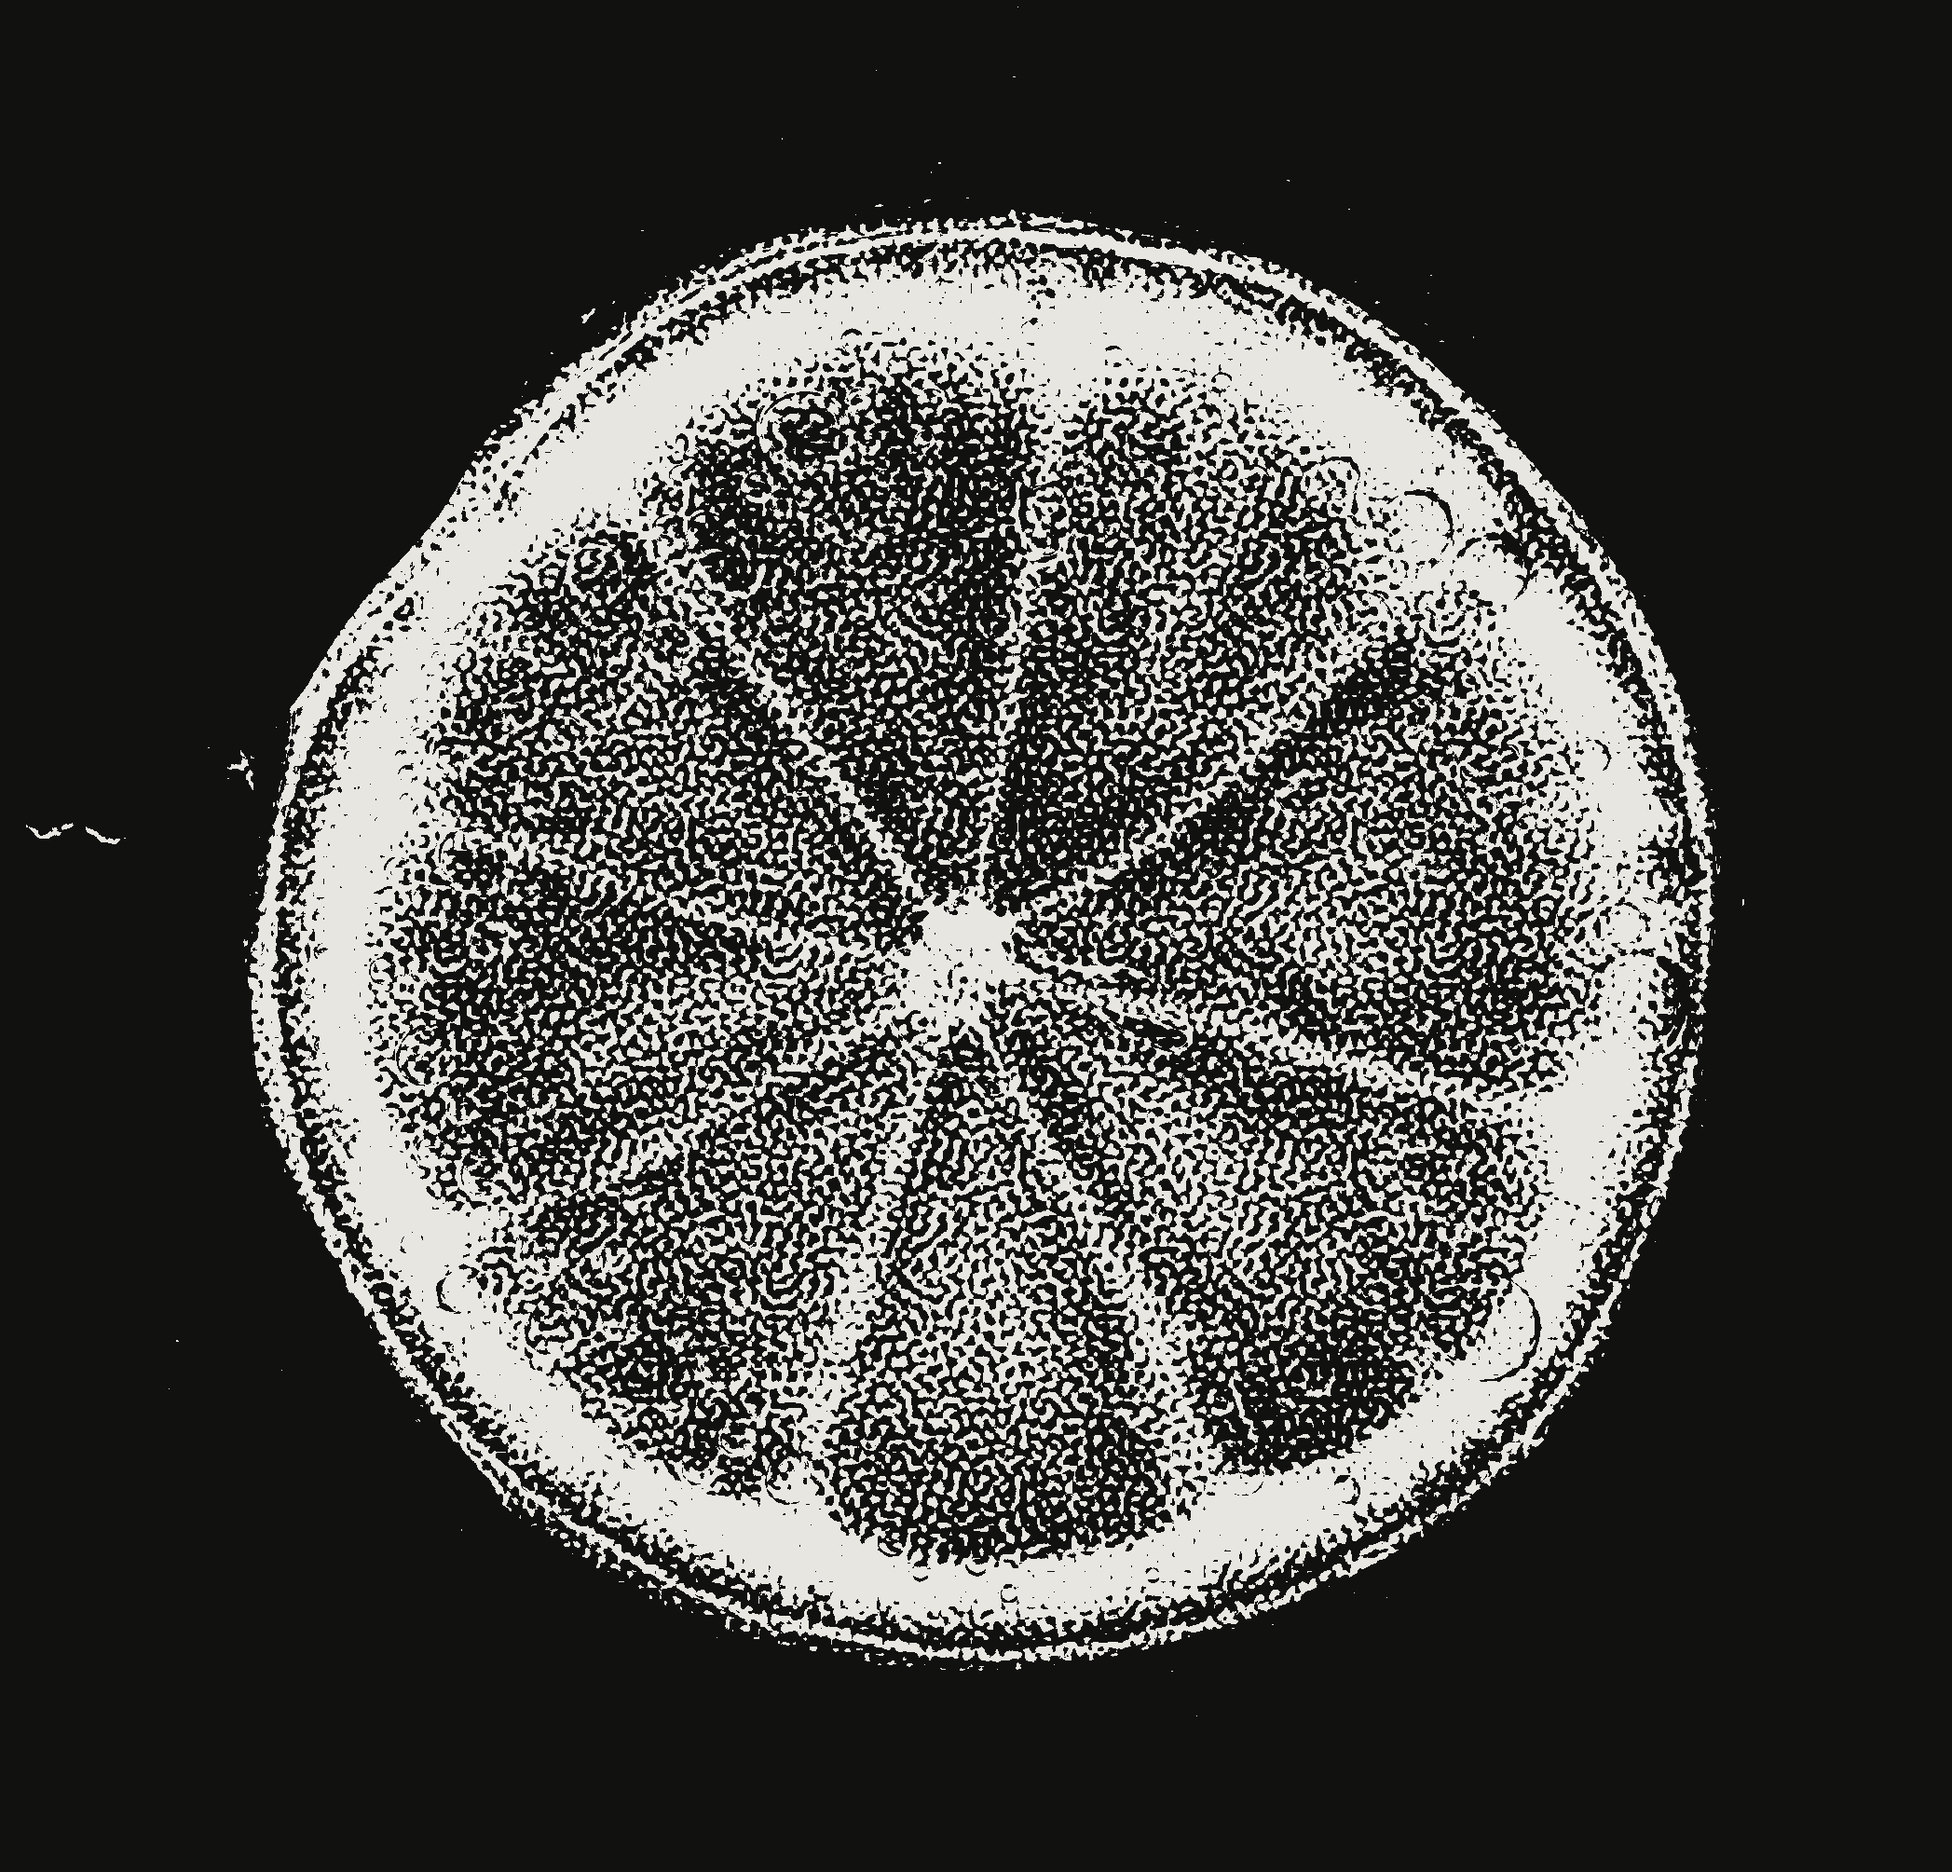
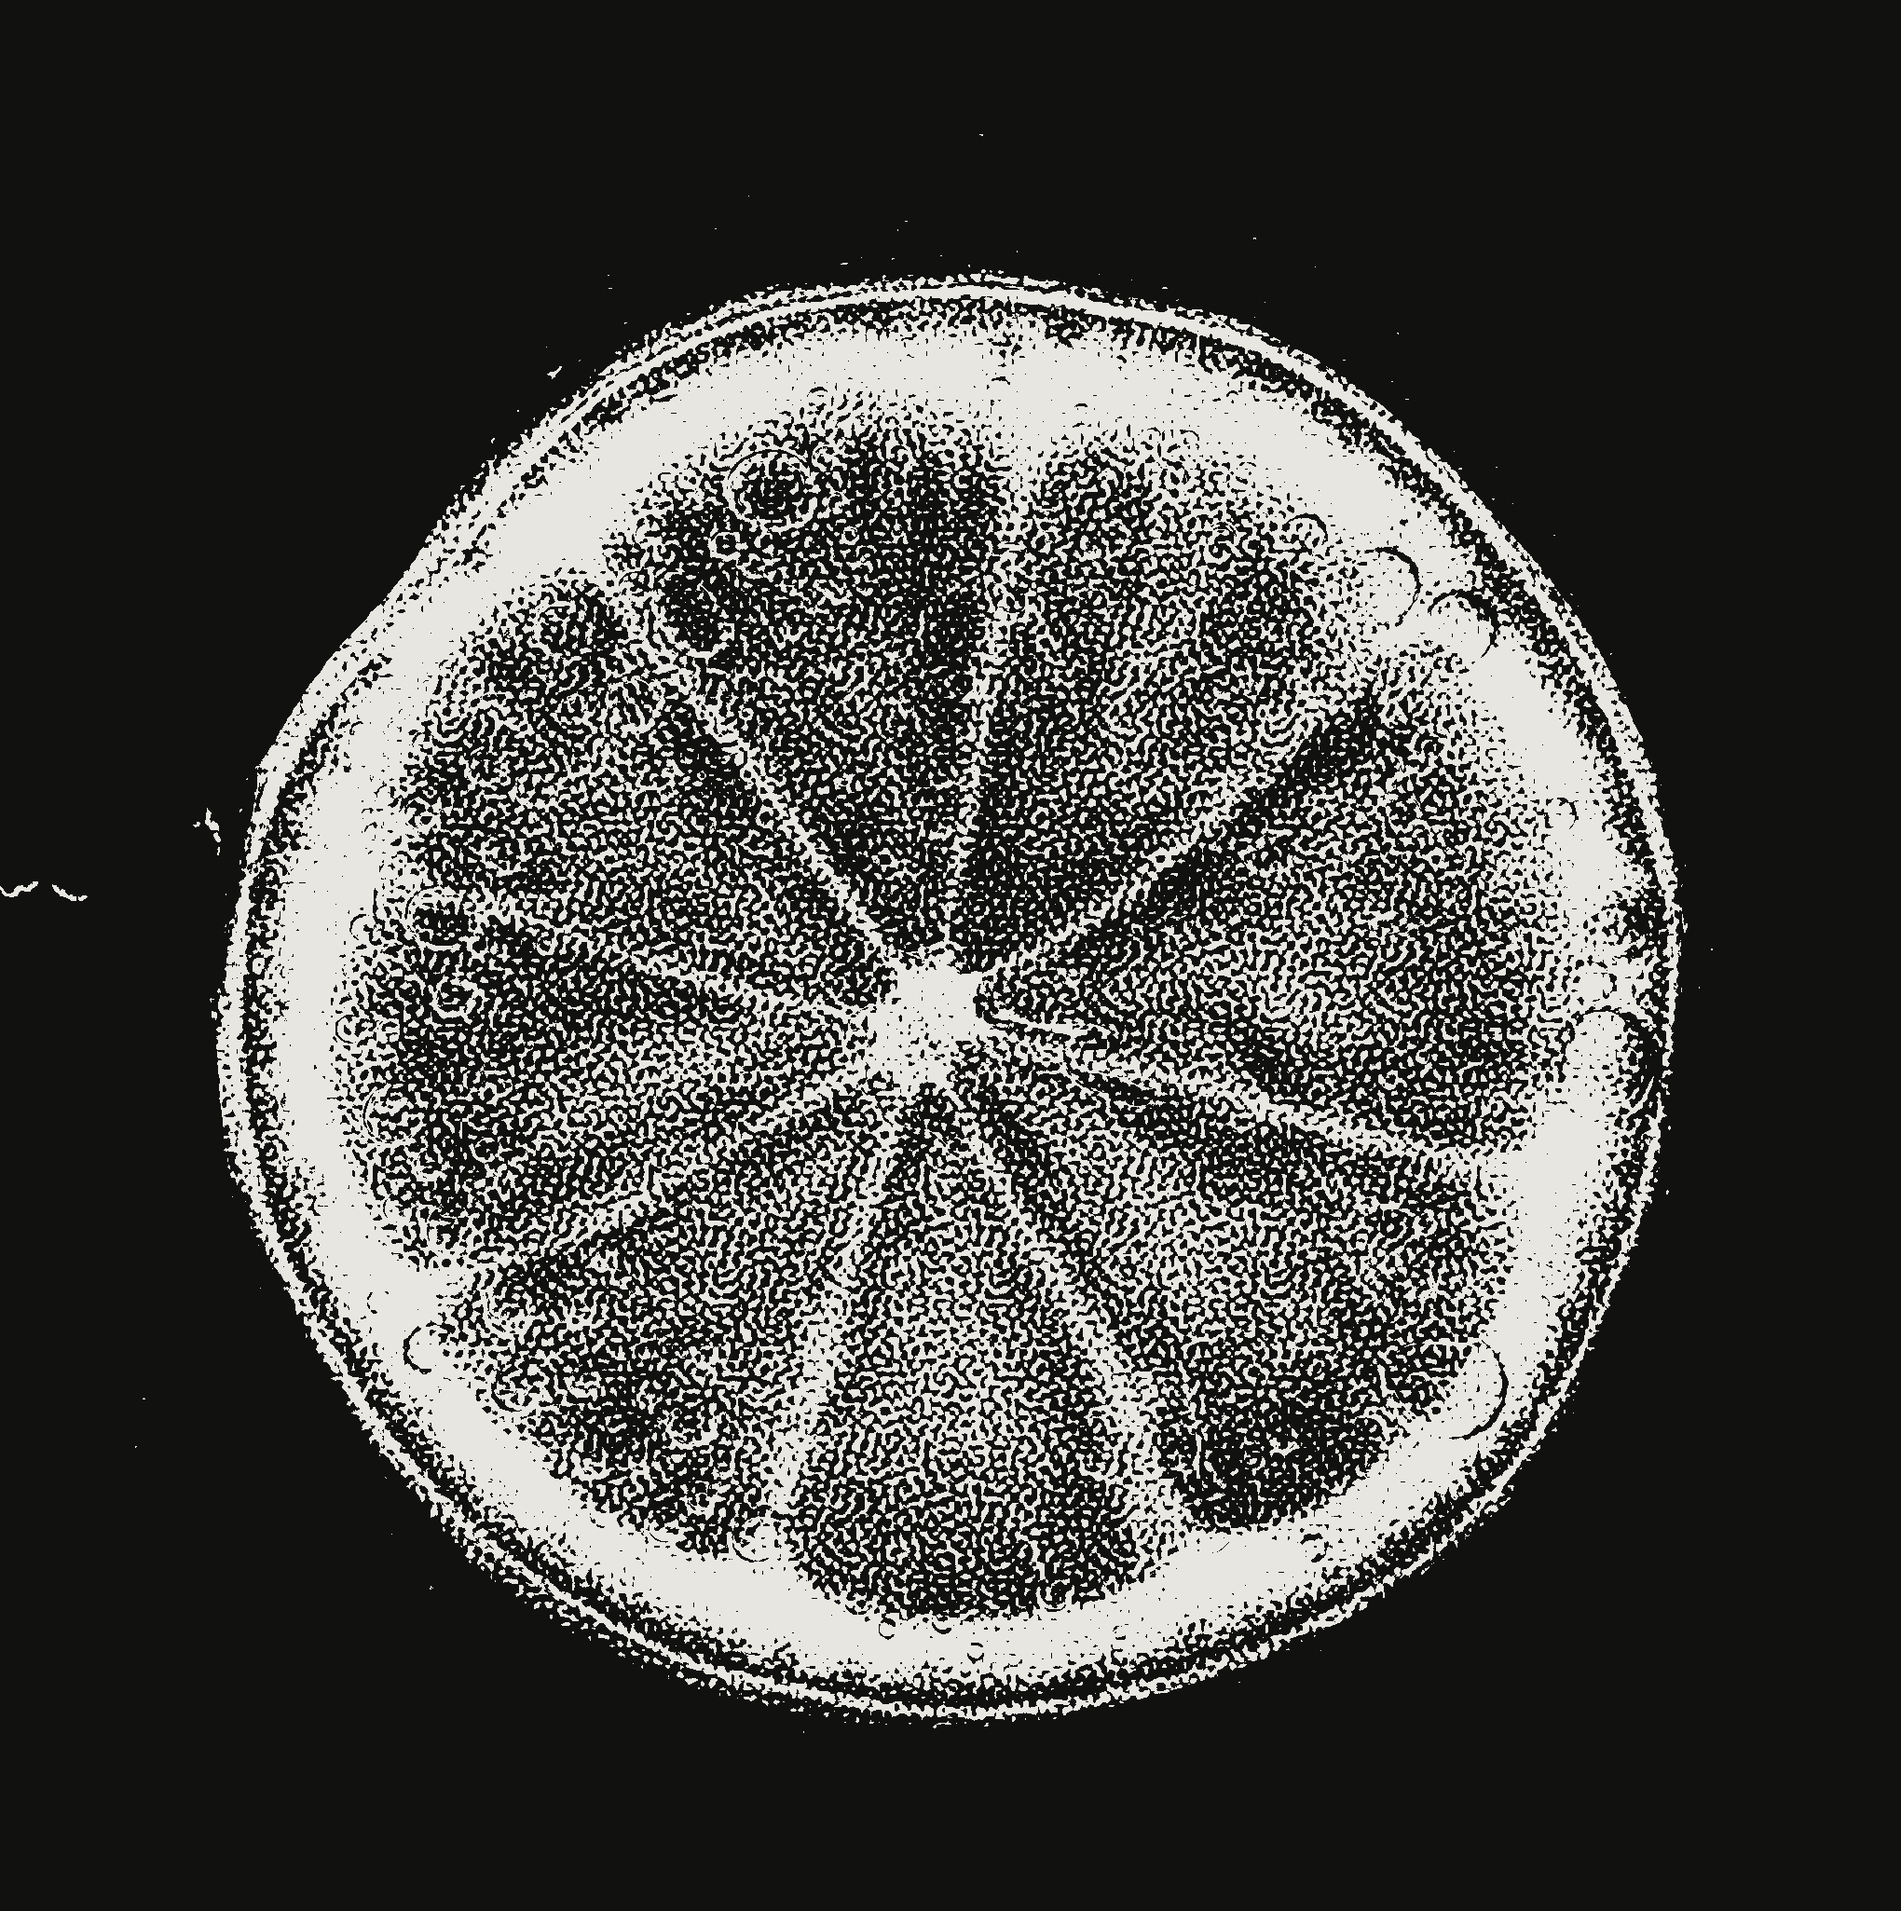
covers

Changed region(s): [[0.0926, 0.0926, 0.8956, 0.9258]]

diff --git a/src/routes/lab/(posts)/meta-paper-balls/Hero.svelte b/src/routes/lab/(posts)/meta-paper-balls/Hero.svelte
@@ -234,7 +234,7 @@
 <!-- Pointer-only attractor affordance; the scene also evolves on its own, and
      the drawer's Pause button is the keyboard-reachable control. -->
 <!-- svelte-ignore a11y_no_static_element_interactions -->
-<div class="hero-stage" class:debug onpointermove={onPointerMove}>
+<div class={["hero-stage", { paused, debug }]} onpointermove={onPointerMove}>
     <Canvas
         {setup}
         {update}
@@ -256,7 +256,7 @@
 
 <style>
     /* sticky positioning/background come from the global .hero-stage */
-    .hero-stage:not(.debug) {
+    .hero-stage:not(.paused, .debug) {
         cursor: none; /* the main blob is the cursor */
     }
 </style>

diff --git a/src/routes/lab/(posts)/blue-noise-dithering/Hero.svelte b/src/routes/lab/(posts)/blue-noise-dithering/Hero.svelte
@@ -11,7 +11,8 @@
         type ShaderApi,
     } from "$lib/components/FullscreenShader.svelte";
 
-    import imgSrc from "./test.jpg";
+    // import imgSrc from "./test.jpg";
+    import imgSrc from "./daan-verhoost-Ut8-FW6_KIM-unsplash.jpg";
     import noiseSrc from "./blue-noise-rgba.png";
     import FRAG from "./dither.frag.glsl?raw";
 
@@ -19,7 +20,7 @@
     const SCALE_MIN = 0.1;
     const SCALE_MAX = 42;
 
-    let ditherScale = $state(8);
+    let ditherScale = $state(7.99);
     let invert = $state(false);
     let uploadedImage = $state<string | undefined>(undefined);
 

diff --git a/src/routes/lab/(posts)/blue-noise-dithering/+page.md b/src/routes/lab/(posts)/blue-noise-dithering/+page.md
@@ -27,4 +27,5 @@ Which noise matters. White noise clumps into maze-like patterns. Blue noise ([CC
 
 The hero at the top runs the same shader with blue noise. Change the noise scale, invert ink and paper, drop in your own image, or export a PNG at the image's full resolution.
 
-<!-- TODO: cover.svg, a proper opening image, swap the Unsplash placeholder photo for the real one. -->
+Photo by <a href="https://unsplash.com/@daanverhoost?utm_source=unsplash&utm_medium=referral&utm_content=creditCopyText">Daan Verhoost</a> on <a href="https://unsplash.com/photos/a-single-pineapple-against-a-dark-background-Ut8-FW6_KIM?utm_source=unsplash&utm_medium=referral&utm_content=creditCopyText">Unsplash</a>  
+Cover image cropped from <a href="https://unsplash.com/@lee_jay_dee?utm_source=unsplash&utm_medium=referral&utm_content=creditCopyText">Lesley Davidson</a> on <a href="https://unsplash.com/photos/closeup-photography-of-lime-FYMY-DJPLGo?utm_source=unsplash&utm_medium=referral&utm_content=creditCopyText">Unsplash</a>
